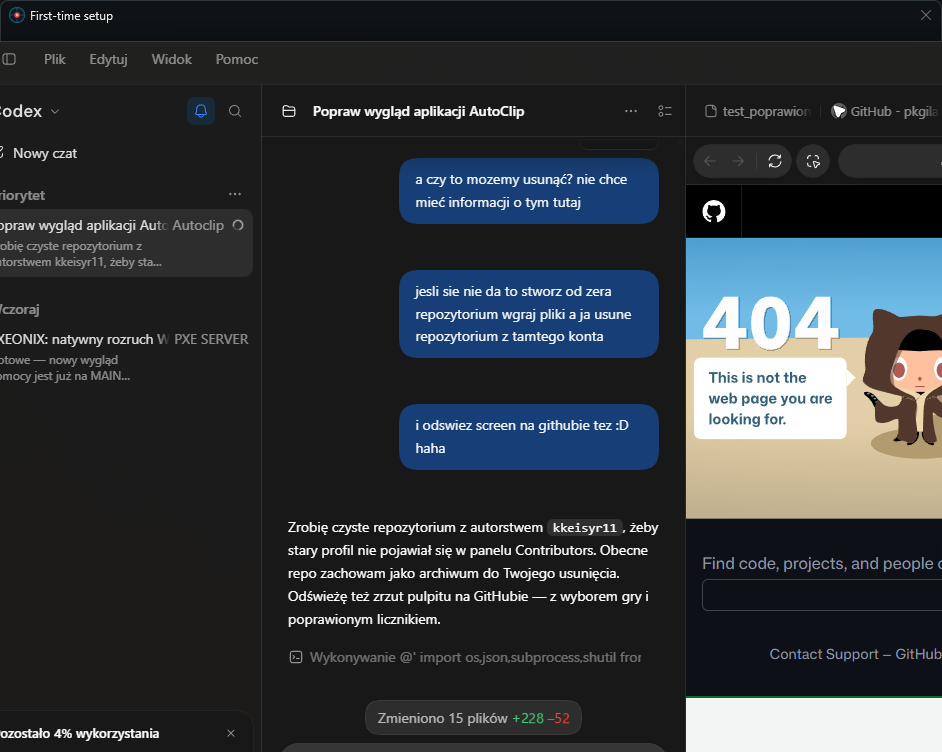
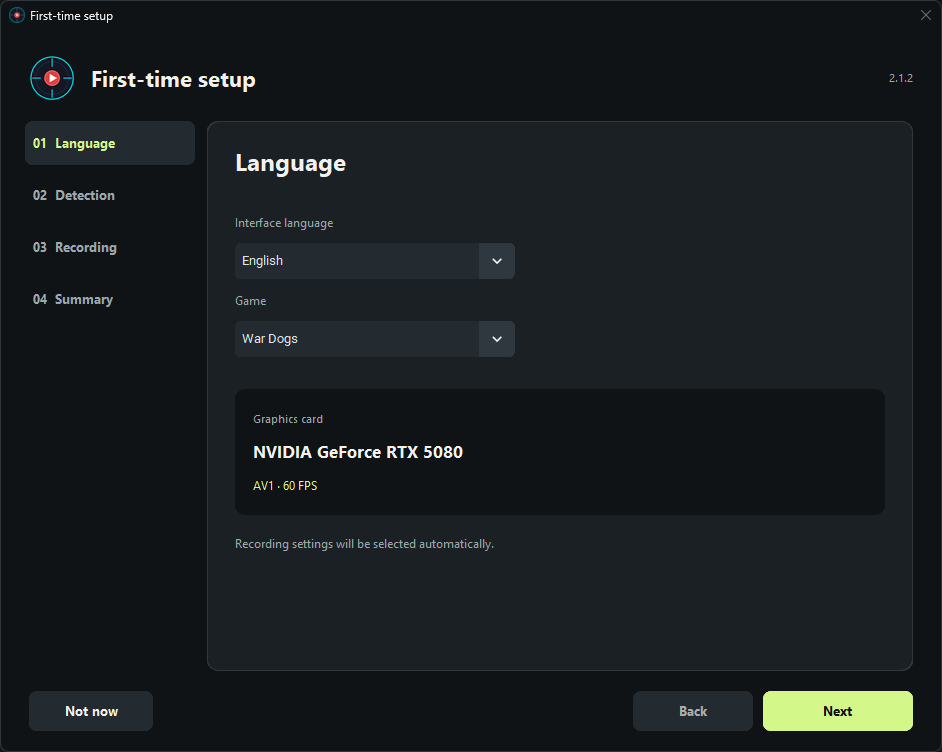
Smooth DPI rendering and redesign the game selector

diff --git a/gui/widgets.py b/gui/widgets.py
@@ -1,0 +1,109 @@
+"""DPI-aware controls with supersampled graphics and native text."""
+import math
+import customtkinter as ctk
+from PIL import Image,ImageDraw,ImageTk
+from .images import AppImage
+
+
+def chevron_image(size,color):
+    scale=6
+    image=Image.new('RGBA',(size*scale,size*scale))
+    draw=ImageDraw.Draw(image)
+    points=[(size*.24,size*.38),(size*.5,size*.64),(size*.76,size*.38)]
+    points=[(round(x*scale),round(y*scale)) for x,y in points]
+    width=max(1,round(size*.115*scale));radius=width/2
+    draw.line(points,fill=color,width=width,joint='curve')
+    for x,y in points:draw.ellipse((x-radius,y-radius,x+radius,y+radius),fill=color)
+    return image.resize((size,size),Image.Resampling.LANCZOS)
+
+
+def controller_image(size):
+    scale=6;s=size*scale
+    image=Image.new('RGBA',(s,s));draw=ImageDraw.Draw(image)
+    draw.rounded_rectangle((0,0,s-1,s-1),radius=s*.28,fill='#2B3831')
+    draw.rounded_rectangle((s*.19,s*.29,s*.81,s*.73),radius=s*.14,outline='#D4F78A',width=round(s*.045))
+    draw.line((s*.3,s*.51,s*.46,s*.51),fill='#D4F78A',width=round(s*.045))
+    draw.line((s*.38,s*.43,s*.38,s*.59),fill='#D4F78A',width=round(s*.045))
+    for x,y in ((.65,.45),(.72,.55)):
+        draw.ellipse((s*(x-.027),s*(y-.027),s*(x+.027),s*(y+.027)),fill='#D4F78A')
+    return image.resize((size,size),Image.Resampling.LANCZOS)
+
+
+class SmoothOptionMenu(ctk.CTkOptionMenu):
+    def _draw(self,*args,**kwargs):
+        super()._draw(*args,**kwargs)
+        self._canvas.itemconfigure('dropdown_arrow',state='hidden')
+        size=max(10,round(self._apply_widget_scaling(14)))
+        color=self._apply_appearance_mode(self._text_color_disabled if self._state=='disabled' else self._text_color)
+        key=(size,color)
+        if key!=getattr(self,'_chevron_key',None):
+            rgb=tuple(channel//257 for channel in self.winfo_rgb(color))
+            self._chevron_photo=ImageTk.PhotoImage(chevron_image(size,rgb),master=self._canvas)
+            self._chevron_key=key
+        if not self._canvas.find_withtag('smooth_arrow'):
+            self._canvas.create_image(0,0,tags='smooth_arrow')
+        self._canvas.itemconfigure('smooth_arrow',image=self._chevron_photo)
+        self._canvas.coords('smooth_arrow',self._apply_widget_scaling(self._current_width-self._current_height/2),
+            self._apply_widget_scaling(self._current_height/2))
+        self._canvas.tag_raise('smooth_arrow')
+
+
+class GameSelector(SmoothOptionMenu):
+    def __init__(self,master,**kwargs):
+        super().__init__(master,width=264,height=54,corner_radius=12,
+            fg_color='#20272C',button_color='#20272C',button_hover_color='#2C373E',
+            text_color='#F1F2ED',font=ctk.CTkFont('Segoe UI',15,weight='bold'),**kwargs)
+
+    def _create_grid(self):
+        super()._create_grid()
+        self._text_label.grid_configure(padx=(self._apply_widget_scaling(60),self._apply_widget_scaling(self._current_height+3)))
+
+    def _draw(self,*args,**kwargs):
+        super()._draw(*args,**kwargs)
+        size=max(20,round(self._apply_widget_scaling(34)))
+        if size!=getattr(self,'_controller_size',None):
+            self._controller_photo=ImageTk.PhotoImage(controller_image(size),master=self._canvas)
+            self._controller_size=size
+        if not self._canvas.find_withtag('game_icon'):
+            self._canvas.create_image(0,0,tags='game_icon')
+        self._canvas.itemconfigure('game_icon',image=self._controller_photo)
+        self._canvas.coords('game_icon',self._apply_widget_scaling(29),self._apply_widget_scaling(self._current_height/2))
+
+
+def gauge_image(fraction,size=720):
+    image=Image.new('RGBA',(size,size));draw=ImageDraw.Draw(image)
+    width=round(size*.028);margin=round(size*.075)
+    bounds=(margin,margin,size-margin-1,size-margin-1)
+    draw.ellipse(bounds,outline='#303A40',width=width)
+    if fraction>=1:draw.ellipse(bounds,outline='#D4F78A',width=width)
+    elif fraction>0:
+        draw.arc(bounds,-90,-90+360*fraction,fill='#D4F78A',width=width)
+        radius=(size-2*margin-width)/2
+        for angle in (-90,-90+360*fraction):
+            x=(size-1)/2+radius*math.cos(math.radians(angle))
+            y=(size-1)/2+radius*math.sin(math.radians(angle))
+            r=width/2;draw.ellipse((x-r,y-r,x+r,y+r),fill='#D4F78A')
+    return image
+
+
+class ReplayGauge(ctk.CTkFrame):
+    def __init__(self,master,caption,**kwargs):
+        super().__init__(master,width=184,height=184,fg_color='transparent',**kwargs)
+        self.pack_propagate(False)
+        self.fraction=0
+        self._gauge_image=AppImage(self,light_image=gauge_image(0),size=(184,184))
+        self._graphic=ctk.CTkLabel(self,text='',image=self._gauge_image)
+        self._graphic.place(relx=.5,rely=.5,anchor='center')
+        self.number=ctk.CTkLabel(self,text='0 s',text_color='#F1F2ED',
+            font=ctk.CTkFont('Segoe UI',32,weight='bold'))
+        self.number.place(relx=.5,rely=.44,anchor='center')
+        self.caption=ctk.CTkLabel(self,text=caption,text_color='#9CA7AE',font=ctk.CTkFont('Segoe UI',10))
+        self.caption.place(relx=.5,rely=.63,anchor='center')
+
+    def set_value(self,text,fraction):
+        self.number.configure(text=text)
+        if fraction!=self.fraction:
+            self.fraction=fraction
+            self._gauge_image.configure(light_image=gauge_image(fraction))
+
+    def set_caption(self,text):self.caption.configure(text=text)

diff --git a/gui/app_window.py b/gui/app_window.py
@@ -29,6 +29,7 @@ from core.setup import NICKNAME_HELP,valid_nickname,clean_nickname
 from core.games import GAMES,game_choices,requires_nickname,select_game
 from core.buffer_display import buffer_display
 from gui.images import AppImage
+from gui.widgets import ReplayGauge,GameSelector
 from gui.window_style import style_window
 
 BG = "#101316"
@@ -235,14 +236,12 @@ class FrapGrabApp(ctk.CTk):
 
     def _build_live(self):
         page = self.scroll_page("live")
-        game_bar=self.card(page)
-        game_bar.pack(fill="x",pady=(0,16))
-        self.label(game_bar,"Gra",14,TEXT,True).pack(side="left",padx=24,pady=16)
+        game_bar=ctk.CTkFrame(page,fg_color='transparent')
+        game_bar.pack(fill="x",pady=(0,14))
         self.game_map=game_choices()
-        self.game_option=LOptionMenu(game_bar,values=list(self.game_map),width=250,height=38,
-            fg_color=RAISED,button_color=BORDER,font=font(14),command=self._select_game)
+        self.game_option=GameSelector(game_bar,values=list(self.game_map),command=self._select_game)
         self.game_option.set(GAMES[self.config_data['game_id']]['name'])
-        self.game_option.pack(side="left",padx=(12,24),pady=16)
+        self.game_option.pack(side="left")
         hero = self.card(page)
         hero.pack(fill="x", pady=(0, 16))
         hero.grid_columnconfigure(0, weight=1)
@@ -264,13 +263,8 @@ class FrapGrabApp(ctk.CTk):
         self.hotkey_badge.pack(side="left", padx=12)
         right = ctk.CTkFrame(hero, fg_color="transparent", width=220)
         right.grid(row=0, column=1, padx=(0, 28), pady=20)
-        self.ring = tk.Canvas(right, width=188, height=174, bg=CARD, highlightthickness=0)
+        self.ring = ReplayGauge(right,caption=t('W BUFORZE'))
         self.ring.pack()
-        self.ring.create_oval(20, 10, 168, 158, outline=BORDER, width=7)
-        self.ring_arc = self.ring.create_arc(20, 10, 168, 158, start=90, extent=0, outline=ACCENT, width=7, style="arc",state="hidden")
-        self.ring_full = self.ring.create_oval(20, 10, 168, 158, outline=ACCENT, width=7,state="hidden")
-        self.ring_number = self.ring.create_text(94, 76, text="0 s", fill=TEXT, font=("Segoe UI", 32, "bold"))
-        self.ring_caption=self.ring.create_text(94, 110, text=t("W BUFORZE"), fill=MUTED, font=("Segoe UI", 9))
         self.buffer_caption = self.label(right, f"do {self.config_data['buffer_seconds']} sekund wstecz", 12, MUTED)
         self.buffer_caption.pack()
         metrics = ctk.CTkFrame(page, fg_color="transparent")
@@ -481,13 +475,8 @@ class FrapGrabApp(ctk.CTk):
         self.after(500, self._tick)
 
     def _update_buffer_display(self,seconds,capacity):
-        text,fraction,full=buffer_display(seconds,capacity)
-        self.ring.itemconfigure(self.ring_number,text=text)
-        # Tk on Windows can draw a visible arc even for a sub-pixel extent.
-        # Hide empty arcs and use a true oval at capacity, without a 359.9° seam.
-        self.ring.itemconfigure(self.ring_arc,extent=-360*fraction,
-            state="normal" if 0<fraction<1 else "hidden")
-        self.ring.itemconfigure(self.ring_full,state="normal" if full else "hidden")
+        text,fraction,_=buffer_display(seconds,capacity)
+        self.ring.set_value(text,fraction)
 
     def _capture_task(self, fn):
         self.capture_operation = True
@@ -1272,7 +1261,7 @@ class FrapGrabApp(ctk.CTk):
         self.auto_gpu_switch.select();self.hud_auto_switch.select()
         self.language_option.set("English" if config["language"]=="en" else "Polski")
         set_language(config["language"])
-        self.ring.itemconfigure(self.ring_caption,text=t("W BUFORZE"))
+        self.ring.set_caption(t("W BUFORZE"))
         self.replay_length.set(next((label for label,value in self.replay_lengths.items() if value==config["manual_replay_seconds"]),f"{config['manual_replay_seconds']} s"))
         self.buffer_option.set(str(config["buffer_seconds"]))
         self.buffer_caption.configure(text=f"do {config['buffer_seconds']} sekund wstecz")
@@ -1301,7 +1290,7 @@ class FrapGrabApp(ctk.CTk):
         self.config_data["language"]="en" if choice=="English" else "pl"
         save_config(self.config_data)
         set_language(self.config_data["language"])
-        self.ring.itemconfigure(self.ring_caption,text=t("W BUFORZE"))
+        self.ring.set_caption(t("W BUFORZE"))
 
     def _choose_folder(self):
         path = filedialog.askdirectory()

diff --git a/tests/test_buffer_display.py b/tests/test_buffer_display.py
@@ -19,19 +19,17 @@ class BufferDisplayTests(unittest.TestCase):
         for value in (-3,float('nan'),float('inf'),None):
             self.assertEqual(buffer_display(value,60),('0 s',0,False))
 
-    def test_canvas_clears_progress_when_a_new_buffer_starts(self):
+    def test_gauge_clears_progress_when_a_new_buffer_starts(self):
         from gui.app_window import FrapGrabApp
-        root=tk.Tk();root.withdraw()
+        from gui.widgets import ReplayGauge
+        import customtkinter as ctk
+        root=ctk.CTk();root.withdraw()
         try:
-            canvas=tk.Canvas(root)
-            widget=SimpleNamespace(ring=canvas,
-                ring_number=canvas.create_text(40,40),
-                ring_arc=canvas.create_arc(0,0,80,80),
-                ring_full=canvas.create_oval(0,0,80,80))
-            for seconds,arc,full,label in [(15,'normal','hidden','15 s'),
-                (60,'hidden','normal','1:00'),(0,'hidden','hidden','0 s')]:
+            widget=SimpleNamespace(ring=ReplayGauge(root,caption='BUFFERED'))
+            for seconds,fraction,label in [(15,.25,'15 s'),(60,1,'1:00'),(0,0,'0 s')]:
                 FrapGrabApp._update_buffer_display(widget,seconds,60)
-                self.assertEqual(canvas.itemcget(widget.ring_arc,'state'),arc)
-                self.assertEqual(canvas.itemcget(widget.ring_full,'state'),full)
-                self.assertEqual(canvas.itemcget(widget.ring_number,'text'),label)
-        finally:root.destroy()
+                self.assertEqual(widget.ring.fraction,fraction)
+                self.assertEqual(widget.ring.number.cget('text'),label)
+        finally:
+            for timer in root.tk.call('after','info'):root.after_cancel(timer)
+            root.destroy()

diff --git a/tests/test_rendering.py b/tests/test_rendering.py
@@ -1,0 +1,30 @@
+import unittest
+import customtkinter as ctk
+from core.localization import LOptionMenu,set_language
+from gui.widgets import GameSelector
+
+
+class RenderingTests(unittest.TestCase):
+    def test_dropdowns_survive_disabled_named_colors_language_and_dpi_changes(self):
+        root=ctk.CTk();root.withdraw()
+        try:
+            menu=LOptionMenu(root,values=['Czyste cięcia','Krótkie przenikanie'])
+            game=GameSelector(root,values=['War Dogs'])
+            menu.set('Krótkie przenikanie')
+            for scale in (1,1.25,1.5,2):
+                ctk.set_widget_scaling(scale)
+                for state in ('disabled','normal'):
+                    menu.configure(state=state,text_color_disabled='gray68')
+                    game.configure(state=state)
+                    root.update_idletasks()
+                    self.assertEqual(menu.get(),'Krótkie przenikanie')
+                    self.assertEqual(game.get(),'War Dogs')
+                    self.assertEqual(menu._canvas.itemcget('dropdown_arrow','state'),'hidden')
+                    self.assertEqual(game._chevron_photo.width(),round(game._apply_widget_scaling(14)))
+                set_language('en')
+                self.assertEqual(menu.get(),'Krótkie przenikanie')
+                set_language('pl')
+        finally:
+            ctk.set_widget_scaling(1)
+            for timer in root.tk.call('after','info'):root.after_cancel(timer)
+            root.destroy()

diff --git a/gui/images.py b/gui/images.py
@@ -1,6 +1,6 @@
 """Images bound to the owning Tcl interpreter, shared by app windows."""
 import customtkinter as ctk
-from PIL import ImageTk
+from PIL import ImageTk,Image
 
 
 class AppImage(ctk.CTkImage):
@@ -10,10 +10,10 @@ class AppImage(ctk.CTkImage):
 
     def _get_scaled_light_photo_image(self,size):
         if size not in self._scaled_light_photo_images:
-            self._scaled_light_photo_images[size]=ImageTk.PhotoImage(self._light_image.resize(size),master=self.master)
+            self._scaled_light_photo_images[size]=ImageTk.PhotoImage(self._light_image.resize(size,Image.Resampling.LANCZOS),master=self.master)
         return self._scaled_light_photo_images[size]
 
     def _get_scaled_dark_photo_image(self,size):
         if size not in self._scaled_dark_photo_images:
-            self._scaled_dark_photo_images[size]=ImageTk.PhotoImage(self._dark_image.resize(size),master=self.master)
+            self._scaled_dark_photo_images[size]=ImageTk.PhotoImage(self._dark_image.resize(size,Image.Resampling.LANCZOS),master=self.master)
         return self._scaled_dark_photo_images[size]

diff --git a/core/localization.py b/core/localization.py
@@ -5,6 +5,7 @@ import weakref
 from pathlib import Path
 import customtkinter as ctk
 from tkinter import filedialog as _filedialog,messagebox as _messagebox
+from gui.widgets import SmoothOptionMenu
 
 _language="pl"
 _catalog={}
@@ -66,7 +67,7 @@ class LTextbox(ctk.CTkTextbox):
     def insert(self,index,text,*args):return super().insert(index,t(text),*args)
 
 
-class LOptionMenu(ctk.CTkOptionMenu):
+class LOptionMenu(SmoothOptionMenu):
     def __init__(self,*args,**kwargs):
         self._canonical_values=list(kwargs.get("values",[]))
         self._canonical_current=self._canonical_values[0] if self._canonical_values else ""

diff --git a/core/updater.py b/core/updater.py
@@ -11,7 +11,7 @@ from packaging.version import Version,InvalidVersion
 from .config import CONFIG_DIR
 from .media import MediaCancelled
 
-CURRENT_VERSION="2.1.1"
+CURRENT_VERSION="2.1.2"
 
 
 def repository_name(value):

diff --git a/README.en.md b/README.en.md
@@ -1,12 +1,12 @@
 # User guide
 
-[Download for Windows](https://github.com/kkeisyr11/FrapGrab/releases/latest/download/Frap_Grab_Setup_2.1.1.exe) · [Releases](https://github.com/kkeisyr11/FrapGrab/releases) · [Home](README.md)
+[Download for Windows](https://github.com/kkeisyr11/FrapGrab/releases/latest/download/Frap_Grab_Setup_2.1.2.exe) · [Releases](https://github.com/kkeisyr11/FrapGrab/releases) · [Home](README.md)
 
 Windows 10/11, 64-bit. The installer includes the required media tools.
 
 ![First run](docs/images/first-run-en.png)
 
-Download **Frap_Grab_Setup_2.1.1.exe** from Releases, run it and follow the installer.
+Download **Frap_Grab_Setup_2.1.2.exe** from Releases, run it and follow the installer.
 Launch Frap Grab from the Start menu or desktop shortcut.
 
 Choose **English** in Settings. The interface switches immediately.

diff --git a/README.md b/README.md
@@ -2,7 +2,7 @@
 
 Save game replays and turn your best moments into a highlight video.
 
-[Download installer (.exe)](https://github.com/kkeisyr11/FrapGrab/releases/download/v2.1.1/Frap_Grab_Setup_2.1.1.exe) · [Guide](README.en.md)
+[Download installer (.exe)](https://github.com/kkeisyr11/FrapGrab/releases/download/v2.1.2/Frap_Grab_Setup_2.1.2.exe) · [Guide](README.en.md)
 
 ![Frap Grab](docs/images/dashboard.png)
 
